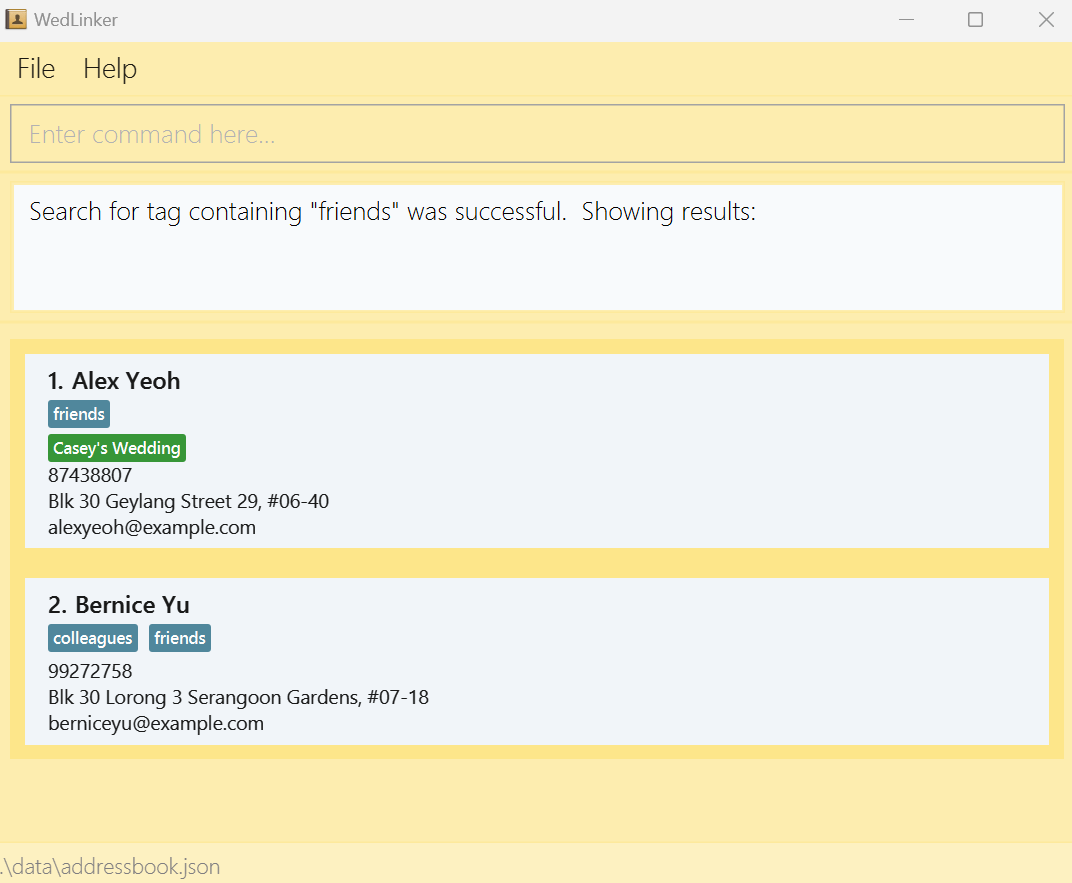
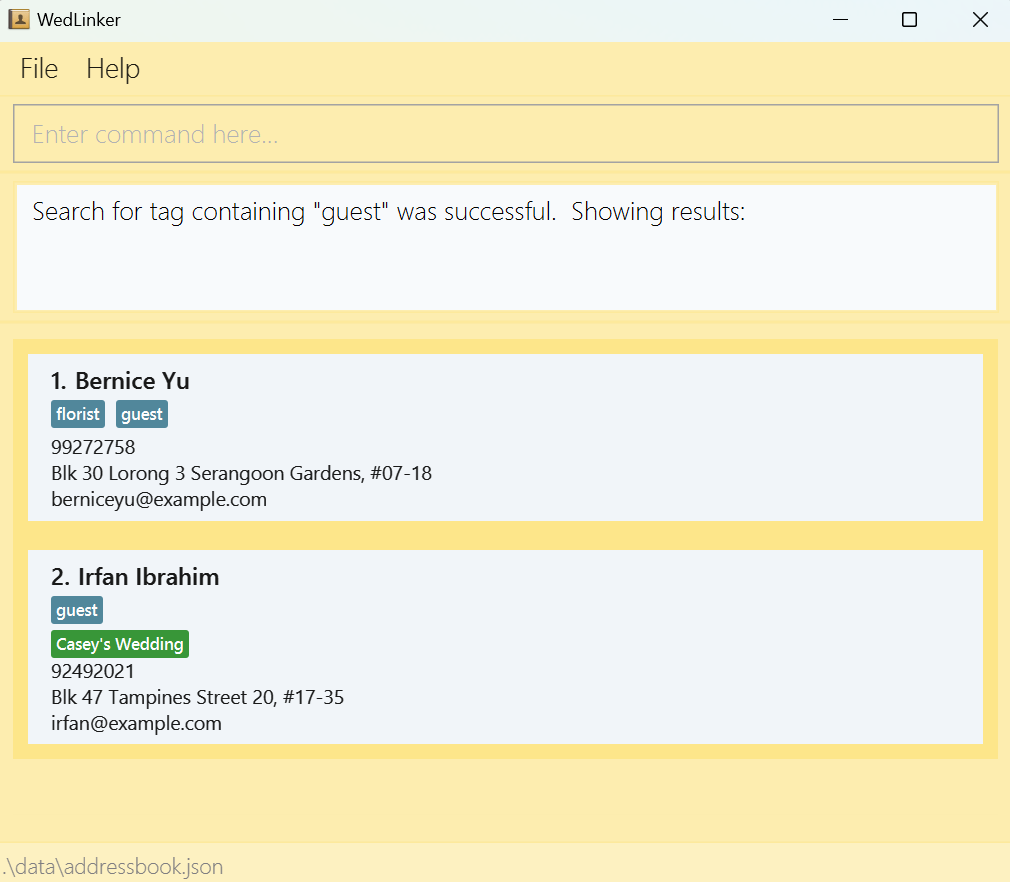
Update find command description

diff --git a/docs/UserGuide.md b/docs/UserGuide.md
@@ -115,24 +115,25 @@ Format: `list-tasks`
 ### Locating contacts by any field, similar to a search function: `find`
 
 Finds all persons based on the specified keywords (case-insensitive) after the prefix representing the field, and displays them as a list with index numbers.
-Only one field can be searched at a time, but multiple keywords can be searched for the same field. 
 
 Format: `find PREFIX KEYWORD [KEYWORD]…`
 
-* The search is case-insensitive. e.g `hans` will match `Hans`
-* The search will return partial matches and full matches
-* You can search multiple keywords for the same field by using the appropriate prefixes. For example, use find `n/` for names and separate each name with an additional `n/`.
-* Only the first prefix entered will be used for the search. For example, if you enter find n/ a/, the search will only look for matches in the name field and ignore the address field. Make sure to specify the prefix that corresponds to the field you want to search.
-* The order of the keywords does not matter. e.g. `n/Hans n/Bo` will match `n/Bo n/Hans`
+* The search is case-insensitive. e.g `hans` will match `Hans`.
+* The prefix that corresponds to the field you want to search should be specified. e.g. use `find n/Alex` to search by name, use `find e/alex@gmail.com` to search by email.
+* The search will return partial matches and full matches.
+* Only one field can be searched at a time, but multiple keywords can be searched for the same field by using the by placing each keyword after the appropriate prefix. 
+* Only the first prefix entered will be used for the search. For example, if you enter find `find n/Alex a/`, the search will only look for matches in the name field and ignore the address field.
+* The order of the keywords does not matter. e.g. `n/Hans n/Bo` will return the same contacts as `n/Bo n/Hans`.
 
 Examples:
 * `find n/John` returns `john` and `John Doe`
+* `find p/973` returns all Contacts whose phone number contains 973
 * `find n/alex n/david` returns `Alex Yeoh`, `David Li`<br>
-![result for 'find n/alex david'](images/findCommandName.png)
-* `find t/friends` returns all Contacts tagged with Friends <br>
-![result for `find t/friends](images/findCommandTag.png)
-* `find w/Amy's Wedding` returns all Contacts involved with Amy's Wedding <br>
-![result for 'find w/Casey'](images/findCommandWedding.png)
+![result for 'find n/alex n/david'](images/findCommandName.png)
+* `find t/friends` returns all Contacts tagged with 'guest' <br>
+![result for `find t/guest](images/findCommandTag.png)
+* `find w/Casey's Wedding` returns all Contacts involved with Casey's Wedding <br>
+![result for 'find w/Casey's Wedding](images/findCommandWedding.png)
 
 ### Clearing all entries : `clear`
 
